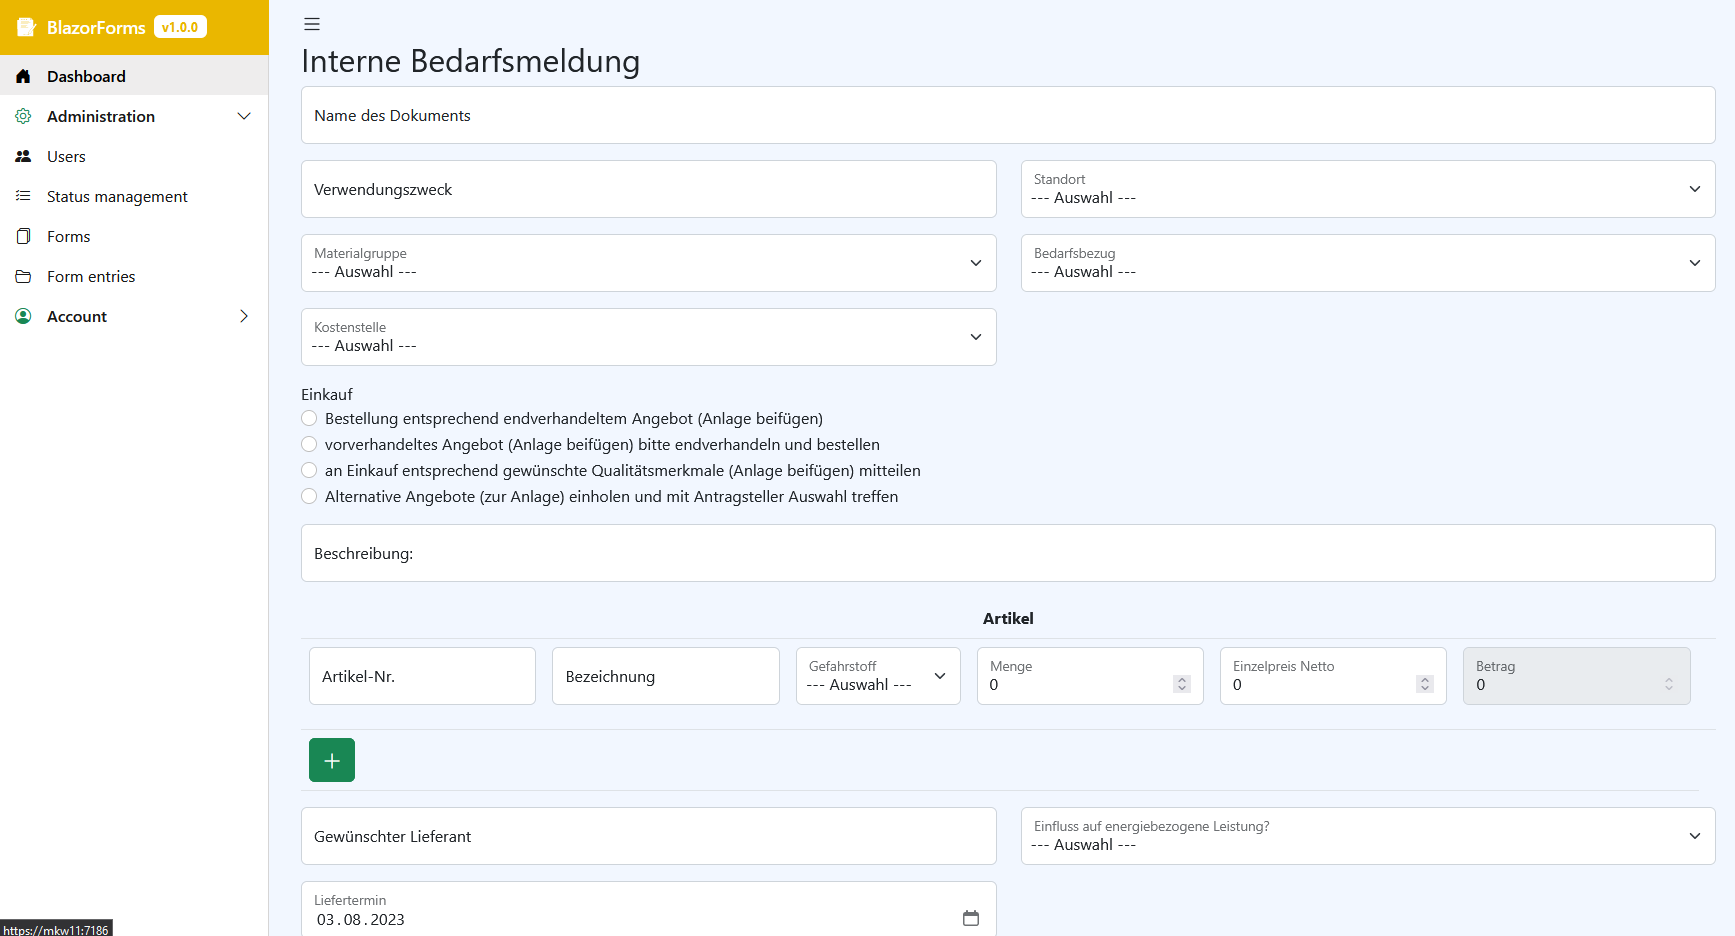
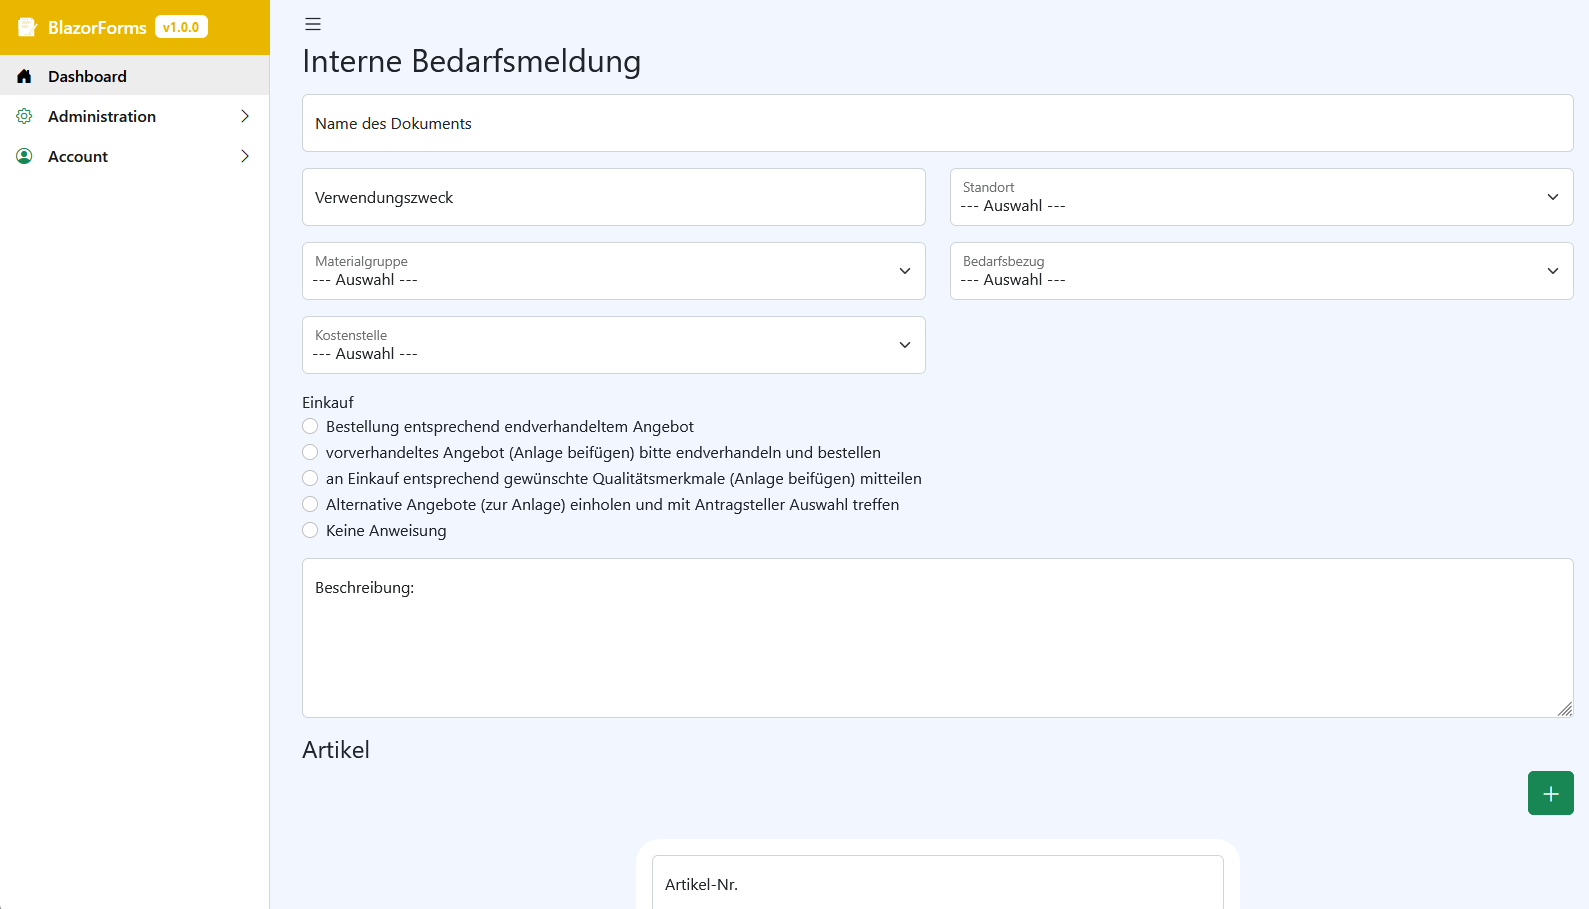
Update preview image of tables

diff --git a/README.MD b/README.MD
@@ -6,6 +6,7 @@ Create dynamic PDF forms completely in the web.
 ![Element editor](images/element_editor.png)
 ![Calc editor](images/calc_editor.png)
 ![New form entry](images/new_form_entry.png)
+![New form entry tables](images/new_form_entry_table.png)
 
 ## Requirements
 * MariaDB Database
